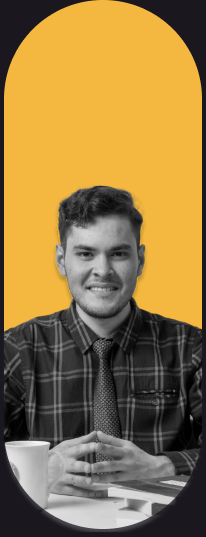
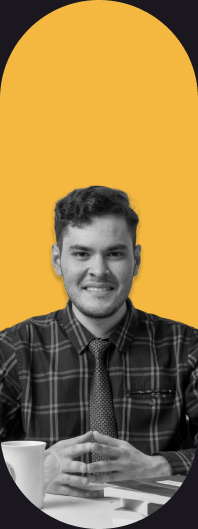
add styles to land section with one bug )

Changed region(s): [[0.0, 0.0302, 1.0, 1.0], [0.7273, 0.0, 0.7576, 0.0302], [0.2424, 0.0, 0.2727, 0.0302]]

diff --git a/css/style.css b/css/style.css
@@ -11,6 +11,8 @@ body {
   font-family: sofia-pro, sans-serif;
   font-style: normal;
   font-weight: 400;
+  margin: 0;
+  padding: 0;
 }
 
 @font-face {
@@ -50,6 +52,7 @@ body {
       -ms-flex-pack: justify;
           justify-content: space-between;
   margin-top: 27px;
+  margin-bottom: 267px;
 }
 
 .logo-navbar {
@@ -107,5 +110,97 @@ body {
 .logo {
   height: 51px;
   margin-right: 75px;
+}
+
+.land__container {
+  max-width: 1232px;
+  margin: auto;
+  display: -webkit-box;
+  display: -ms-flexbox;
+  display: flex;
+  -webkit-box-orient: horizontal;
+  -webkit-box-direction: normal;
+      -ms-flex-direction: row;
+          flex-direction: row;
+}
+
+.land__content {
+  max-width: 563px;
+  margin-right: 103px;
+}
+
+.land__title {
+  font-family: Sofia Pro;
+  font-style: normal;
+  font-weight: bold;
+  font-size: 72px;
+  line-height: 75px;
+  margin-top: 0;
+  margin-bottom: 17px;
+}
+
+.land__text {
+  font-size: 24px;
+  line-height: 26px;
+  margin-bottom: 29px;
+  margin-top: 0;
+}
+
+.land__btn {
+  font-family: Sofia Pro;
+  font-style: normal;
+  font-weight: normal;
+  font-size: 24px;
+  line-height: 26px;
+  padding: 17px 36px;
+  border-radius: 31px;
+  border: none;
+  color: #FFFFFF;
+  cursor: pointer;
+}
+
+.land-btn_blue {
+  background: #4194F4;
+  margin-right: 38px;
+}
+
+.land-btn_black {
+  background: #2A2A35;
+}
+
+.land__team-members {
+  position: relative;
+}
+
+.team-member {
+  position: absolute;
+}
+
+.team-member__1 {
+  top: -238px;
+}
+
+.team-member__2 {
+  top: -478px;
+  right: -425px;
+}
+
+.team-member__3 {
+  right: -650px;
+  top: -168px;
+}
+
+.team-member__4 {
+  top: 318px;
+}
+
+.team-member__5 {
+  right: -425px;
+  top: 77px;
+}
+
+.team-member__6 {
+  right: -650px;
+  top: 388px;
 }
 /*# sourceMappingURL=style.css.map */

diff --git a/sass/blocks/_land.sass b/sass/blocks/_land.sass
@@ -1,0 +1,59 @@
+.land  
+  &__container
+    max-width: 1232px
+    margin: auto
+    display: flex
+    flex-direction: row
+  &__content
+    max-width: 563px
+    margin-right: 103px 
+  &__title
+    font-family: Sofia Pro;
+    font-style: normal
+    font-weight: bold
+    font-size: 72px
+    line-height: 75px
+    margin-top: 0
+    margin-bottom: 17px
+  &__text
+    font-size: 24px
+    line-height: 26px
+    margin-bottom: 29px
+    margin-top: 0
+  &__btn    
+    font-family: Sofia Pro
+    font-style: normal
+    font-weight: normal
+    font-size: 24px
+    line-height: 26px
+    padding: 17px 36px
+    border-radius: 31px
+    border: none
+    color: #FFFFFF
+    cursor: pointer
+  &-btn_blue
+    background: #4194F4
+    margin-right: 38px
+  &-btn_black
+    background: #2A2A35
+  &__team-members
+    position: relative
+.team-member
+  position: absolute  
+  &__1
+    top: -238px
+  &__2
+    top: -478px
+    right: -425px
+  &__3
+    right: -650px
+    top: -168px
+  &__4
+    top: 318px
+  &__5
+    right: -425px
+    top: 77px
+  &__6
+    right: -650px
+    top: 388px
+    

diff --git a/main.html b/main.html
@@ -38,10 +38,16 @@
         <button class="land__btn land-btn_blue">Kurslarymyz</button>
         <button class="land__btn land-btn_black">Konsultasiýa</button>
       </div>
-      <div class="land__team-member-photo">
-        
+      <!-- land content -->
+      <div class="land__team-members">
+        <img class="team-member team-member__1" src="img/land section/1.png" alt="team member">
+        <img class="team-member team-member__2" src="img/land section/3.png" alt="team member">
+        <img class="team-member team-member__3" src="img/land section/3.png" alt="team member">
+        <img class="team-member team-member__4" src="img/land section/4.png" alt="team member">
+        <img class="team-member team-member__5" src="img/land section/5.png" alt="team member">
+        <img class="team-member team-member__6" src="img/land section/6.png" alt="team member">
       </div>
-
+      <!-- land__team-members -->
     </div>
   </section>
   <!-- section -->

diff --git a/sass/_settings.sass b/sass/_settings.sass
@@ -8,6 +8,8 @@ body
   font-family: sofia-pro, sans-serif
   font-style: normal
   font-weight: 400
+  margin: 0
+  padding: 0
 
 $sofia-pro-font: "../font"
 

diff --git a/sass/blocks/_header.sass b/sass/blocks/_header.sass
@@ -5,6 +5,7 @@
   align-items: center
   justify-content: space-between
   margin-top: 27px
+  margin-bottom: 267px
 
 .logo-navbar
   display: flex

diff --git a/sass/style.sass b/sass/style.sass
@@ -2,3 +2,5 @@
 @import 'settings'
 //header
 @import 'blocks/header';
+//land
+@import 'blocks/land';
